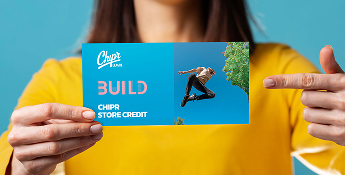
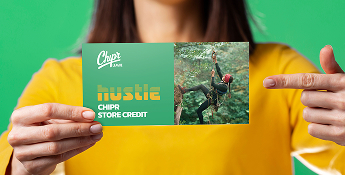
Updates
- bug fixes

diff --git a/league-swag.html b/league-swag.html
@@ -98,8 +98,8 @@
     <div class="container-fluid league-swag-seasons">
         <div class="seasons-details mx-common">
             <div class="seasons-details-tabs text-center">
-                <div class="season-tab spring-tab active"><img alt="Sprint" loading="lazy" src="./images/league-swag/spring-tab.svg" /></div>
-                <div class="season-tab summer-tab"><img alt="Summer" loading="lazy" src="./images/league-swag/summer-tab.svg" /></div>
+                <div class="season-tab spring-tab"><img alt="Sprint" loading="lazy" src="./images/league-swag/spring-tab.svg" /></div>
+                <div class="season-tab summer-tab active"><img alt="Summer" loading="lazy" src="./images/league-swag/summer-tab.svg" /></div>
                 <div class="season-tab fall-tab"><img alt="Fall" loading="lazy" src="./images/league-swag/fall-tab.svg" /></div>
                 <div class="season-tab winter-tab"><img alt="Winter" loading="lazy" src="./images/league-swag/winter-tab.svg" /></div>
             </div>
@@ -117,10 +117,10 @@
                                         <div class="offers">
                                             <div class="d-flex gap-1">
                                                 <div class="cta-style">Hat</div>
-                                                <div class="cta-style">Light Jacket</div>
+                                                <div class="cta-style">Long Sleeve Tee</div>
                                             </div>
                                             <div class="plus-style">+</div>
-                                            <div class="cta-style">Short-Sleeve Tee</div>
+                                            <div class="cta-style">Battery Pack</div>
                                             <div class="plus-style">+</div>
                                             <div class="cta-style">$25 Chipr Store Credit</div>
                                         </div>
@@ -129,7 +129,7 @@
                                         <div class=""><img alt="Hat" loading="lazy" class="w-100" src="./images/league-swag/hat-small.jpg" ></div>
                                         <div class="row px-2">
                                             <img alt="T-shirt" loading="lazy" class="col-6 p-1" src="./images/league-swag/tshirt-small.jpg" >
-                                            <img alt="Jacket" loading="lazy" class="col-6 p-1" src="./images/league-swag/jacket-small.jpg" >
+                                            <img alt="Battery" loading="lazy" class="col-6 p-1" src="./images/league-swag/battery-small.jpg" >
                                         </div>
                                         <div class=""><img alt="Coupon" loading="lazy" class="w-100" src="./images/league-swag/coupon-small.jpg"></div>
                                     </div>
@@ -158,7 +158,7 @@
                                 <div class="league-top-container">
                                     <div class="hover-details p-3">
                                         <div class="hover-text">Base Prize Pack +</div>
-                                        <div class="p-1"><img alt="Shoe" loading="lazy" class="w-100" src="./images/league-swag/shoe-small.jpg" ></div>
+                                        <div class="p-1"><img alt="Sunglasses" loading="lazy" class="w-100" src="./images/league-swag/sunglasses-small.jpg" ></div>
                                         <div class="p-1"><img alt="Coupon" loading="lazy" class="w-100" src="./images/league-swag/coupon-small.jpg"></div>
                                     </div>
                                     <div class="details">
@@ -166,7 +166,7 @@
                                         <div class="offers">
                                             <div class="cta-style transparent-bg">Base Prize pack </div>
                                             <div class="plus-style">+</div>
-                                            <div class="cta-style">Custom Shoes</div>
+                                            <div class="cta-style">Premium Sunglasses</div>
                                             <div class="plus-style">+</div>
                                             <div class="cta-style">$75 Chipr Store Credit</div>
                                         </div>                                    
@@ -196,7 +196,7 @@
                                 <div class="league-top-container">
                                     <div class="hover-details p-3">
                                         <div class="hover-text">Base + ADVANCE Prize Pack +</div>
-                                        <div class="p-1"><img alt="BagPack" loading="lazy" class="w-100" src="./images/league-swag/bagpack-small.jpg" ></div>
+                                        <div class="p-1"><img alt="Premium Jacket" loading="lazy" class="w-100" src="./images/league-swag/premium-jacket-small.jpg" ></div>
                                         <div class="p-1"><img alt="ID" loading="lazy" class="w-100" src="./images/league-swag/id-small.jpg"></div>
                                     </div>
                                     <div class="details">
@@ -206,7 +206,7 @@
                                             <div class="plus-style">+</div>
                                             <div class="cta-style">$500 Apple Gift Card</div>
                                             <div class="plus-style">+</div>
-                                            <div class="cta-style">Weekender Backpack/Carry-on</div>
+                                            <div class="cta-style">Premium Jacket</div>
                                         </div>                                    
                                     </div>
                                 </div>

diff --git a/epic-seasons.html b/epic-seasons.html
@@ -137,7 +137,7 @@
                     <h3>boosters</h3>
                     <!-- <span class="boosters-img"></span> -->
                 <!-- </div> -->
-                <p>Participate in special short-term competitions and local challenges to quickly boost your leaderboard ranking!</p>
+                <p>Special events and competitions where you can earn points, swag, or even cash money in addition to the always on points and prizes each season.</p>
               </div>
             </div>
              <div class="col-lg-4 col-12 p-0 booster-container">
@@ -307,20 +307,21 @@
                     <img alt="Pro tip" loading="lazy" class="pro-tip-img" src="./images/epic-seasons/pro-tip.svg" />
                 </div>
                 <div class="col-lg-8 col-12 pro-tip-right mt-2 mt-lg-0">
-                    <h2>BOOSTERS vs. League Points</h2>
+                    <h2>BOOSTERS vs. League Points <br/>
+                    <span>Clarification</span></h2>
                     <div class="pro-tip-right-content">
                         <div class="d-flex align-items-center gap-lg-5 gap-3 ">
                             <div class="count">01</div>
                             <div>
                                 <h6>League Points</h6>
-                                <p>Intangible points used to qualify for rewards and tiers.</p>
+                                <p>Points earned all season long on every order to LEVEL UP through the leagues and earn rewards.</p>
                             </div>
                         </div>
                         <div class="d-flex align-items-center gap-lg-5 gap-3">
                             <div class="count">02</div>
                             <div>
                                 <h6>Boosters</h6>
-                                <p>Tangible rewards (cash, swag, trips) for winning competitions.</p>
+                                <p>Tangible rewards (cash, swag, trips) for winning competitions.Special, short term events where you can earn points, swag, or even cash money.</p>
                             </div>
                         </div>
                     </div>

diff --git a/season-in-spotlight.html b/season-in-spotlight.html
@@ -98,8 +98,8 @@
             </div>
             <div class="march-may-text p-0">
                 <div class="march-may-text-block mx-common">
-                    <div class="month"><img alt="Calendar" loading="lazy" class="" src="./images/season-in-spotlight/calendar-icon.png" /> <span class="text-uppercase px-4">March - May</span></div>
-                    <h2 class="text-uppercase">Build momentum and crush your goals.</h2>
+                    <div class="month"><img alt="Calendar" loading="lazy" class="" src="./images/season-in-spotlight/calendar-icon.png" /> <span class="text-uppercase px-4">June - August</span></div>
+                    <h2 class="text-uppercase">Hustle Through the Heat. Rise Through the Ranks.</h2>
                 </div>
             </div>
         </div>
@@ -109,14 +109,14 @@
         <div class="row mx-common">
             <div class="col-lg-4 col-12 ps-0">
                 <div class="description ps-0">
-                    <h3>Smash Targets</h3>
-                    <p>Earn ChiprCoins with every sale.</p>
+                    <h3>Smash Sales Targets</h3>
+                    <p>Earn League Points with every sale.</p>
                 </div>
             </div>
             <div class="col-lg-4 col-12">
               <div class="description">
-                <h3>Weekend Blitzes</h3>
-                <p>Boost points with special weekend events.</p>
+                <h3>Weekend Pop Up Events</h3>
+                <p>Boost points withPop Up Events events.</p>
               </div>
             </div>
             <div class="col-lg-4 col-12">
@@ -157,7 +157,7 @@
                        <h3>Recruiting Booster:</h3> 
                     </div>
                     <div class="w-rs">
-                        <p>+15 points weekly for hitting activity targets in June</p>
+                        <p>Nike gift cards for top field recruiter each week in June</p>
                     </div>
                 </div>
                 <div class="d-flex align-items-center justify-content-start">

diff --git a/the-forge.html b/the-forge.html
@@ -122,7 +122,7 @@
         <div class="d-flex d2d-explained-content d-lg-block d-none">
             <img alt="D2D and MDU" class="w-100" src="./images/the-forge/d2d.svg" />
             <div class="d2d-end-container">
-                <img alt="The forge" class="d2d-end" src="./images/the-forge/d2d-end.png" /> 
+                <img alt="The forge" class="d2d-end" src="./images/the-forge/forge-img.svg" /> 
                 <img alt="Cerfificate" class="d2d-end-hover" src="./images/the-forge/d2d-end-hover.png" />          
             </div>
         </div>
@@ -174,7 +174,7 @@
                 </div>
             </div>
             <div class="d2d-hover-mobile">
-                <img alt="The Forge" class="d2d-end" src="./images/the-forge/d2d-end.png" /> 
+                <img alt="The Forge" class="d2d-end" src="./images/the-forge/forge-img.svg" /> 
                 <img alt="Certificate" src="./images/the-forge/d2d-hover-mobile.avif" />
             </div>
         </div>

diff --git a/css/league-swag.css b/css/league-swag.css
@@ -78,17 +78,17 @@
     height: 100%;
 }
 .seasons-details-col .season-detail-col.base-league {
-    background: rgba(217, 217, 217, 0.05);
+    background: rgba(217, 217, 217, 0.10);
 }
 
 .seasons-details-col .season-detail-col.advanced-league {
     background: rgba(217, 217, 217, 0.10);
 }
 .seasons-details-col .season-detail-col.pro-league {
-    background: rgba(217, 217, 217, 0.20);
+    background: rgba(217, 217, 217, 0.10);
 }
 .seasons-details-col .season-detail-col.premier-league {
-    background: rgba(217, 217, 217, 0.25);
+    background: rgba(217, 217, 217, 0.10);
 }
 .seasons-details-col .top-image {
     position: absolute;
@@ -142,7 +142,7 @@
 .seasons-details-col .season-detail-col .season-points .mdu {
     font-family: "Bold";
     font-size: 33px;
-    color: #3AA8CC;
+    color: #30A46E;
     margin-bottom: 19px;
 }
 .seasons-details-col .season-detail-col .season-points .mdu {

diff --git a/index.html b/index.html
@@ -98,7 +98,7 @@
                     <button type="button" class="btn-close-custom" data-bs-dismiss="modal" aria-label="Close"></button>
                 </div>
                 <div class="modal-body">
-                    <iframe src="https://www.youtube.com/embed/HPioowjHS5M?si=mFAN-0VH5Xt5ioiz" autoplay frameborder="0" allow="accelerometer; autoplay; clipboard-write; encrypted-media; gyroscope; picture-in-picture; web-share" referrerpolicy="strict-origin-when-cross-origin" allowfullscreen></iframe>
+                    <iframe src="https://www.youtube.com/embed/W2YMIjn-EIU?si=nN8oDcAbs1wEWIli" autoplay frameborder="0" allow="accelerometer; autoplay; clipboard-write; encrypted-media; gyroscope; picture-in-picture; web-share" referrerpolicy="strict-origin-when-cross-origin" allowfullscreen></iframe>
                 </div>
             </div>
         </div>

diff --git a/css/the-forge.css b/css/the-forge.css
@@ -138,6 +138,9 @@ marquee {
     background: #555;
 }
 
+.slider-img-2{
+    max-width: 180px;
+}
 /* applies to small devices (landscape phones, less than 768px) */
 /* applies to medium devices (tablets, less than 992px) */ 
 @media(max-width: 600px){
@@ -249,7 +252,7 @@ marquee {
     }
     .d2d-hover-mobile img {
         padding: 2px 10px 12px 10px;
-        width: fit-content;
+        width: 180px;
     }
 }
 

diff --git a/css/champions-club.css b/css/champions-club.css
@@ -385,7 +385,7 @@
 /* applies to medium devices (tablets, less than 992px) */
 @media (max-width: 991.98px) {
     .top-slider .slider-images {
-        background-position: 80%;
+        background-position: center;
         height: calc(100vh - 143px);
         background-repeat: no-repeat;
     }

diff --git a/css/season-in-spotlight.css b/css/season-in-spotlight.css
@@ -216,6 +216,9 @@ marquee {
     top: 15px;
     left: 15px;
 }
+.gifts .gift-details .hat span{
+    color: #FCCA46
+}
 
 /* applies to small devices (landscape phones, less than 768px) */
 /* applies to medium devices (tablets, less than 992px) */
